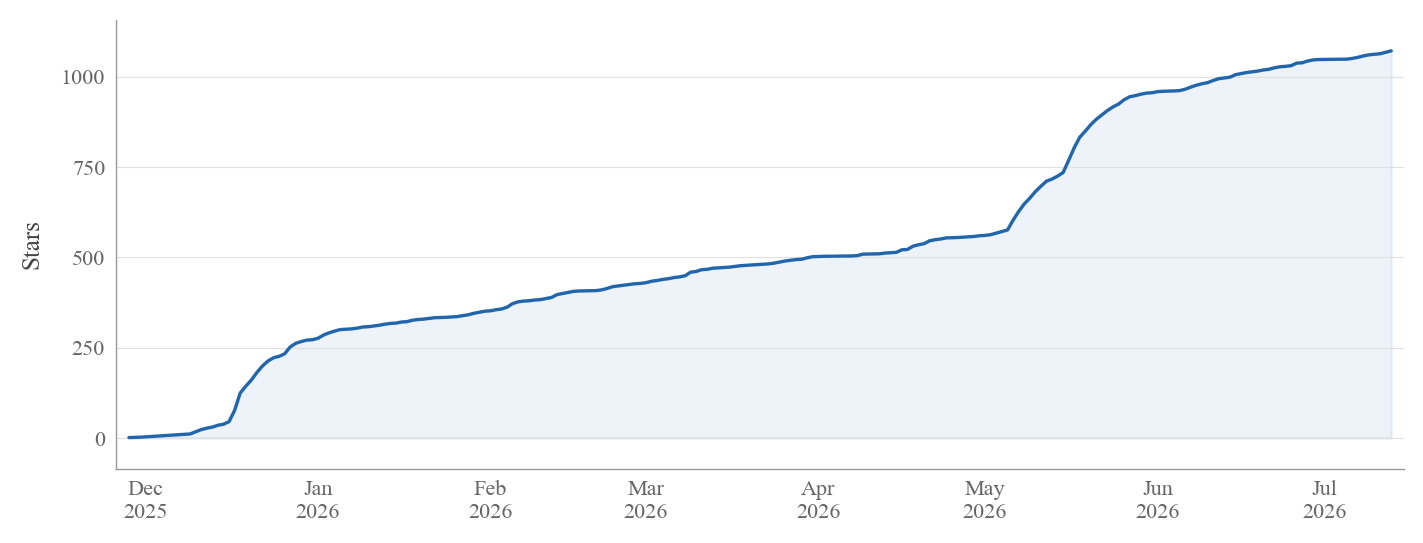
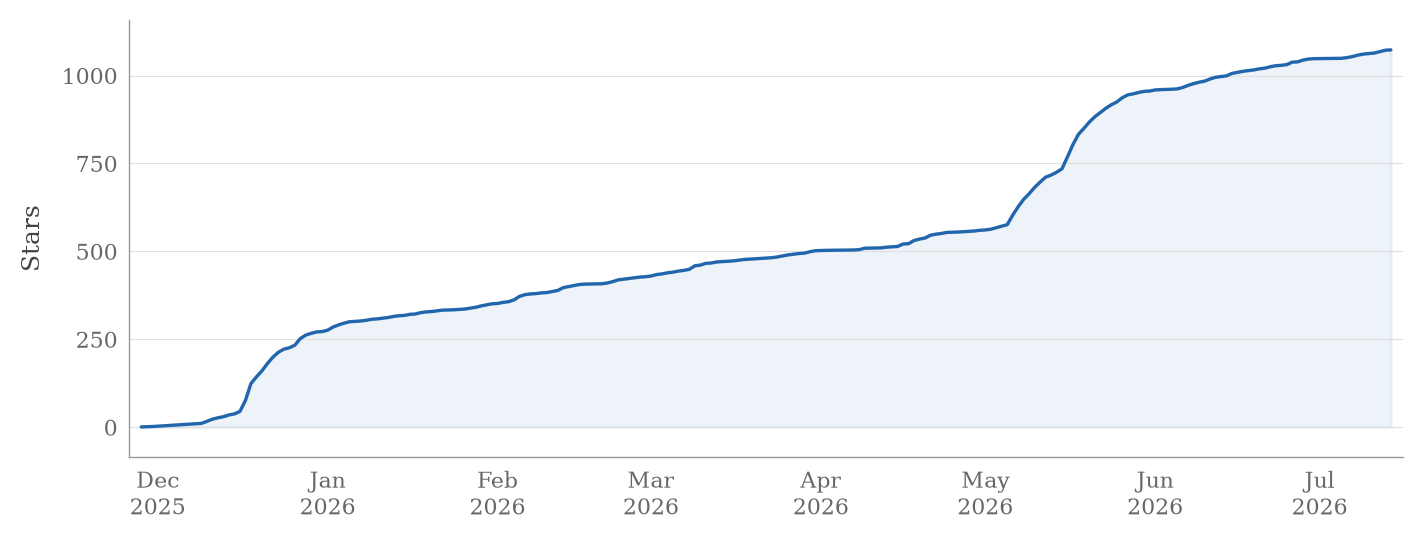
chore: update stars badge and chart

diff --git a/README.md b/README.md
@@ -8,7 +8,7 @@
 
 <p align="center">
   <a href="https://github.com/zimingttkx"><img src="https://img.shields.io/github/followers/zimingttkx?label=Follow&style=flat-square&logo=github" /></a>
-  <a href="https://github.com/zimingttkx?tab=repositories"><img src="https://img.shields.io/badge/Total%20Stars-1072-blue?style=flat-square" /></a>
+  <a href="https://github.com/zimingttkx?tab=repositories"><img src="https://img.shields.io/badge/Total%20Stars-1073-blue?style=flat-square" /></a>
   <a href="https://leetcode.cn/u/zimingttkx"><img src="https://img.shields.io/badge/LeetCode-zimingttkx-FFA116?style=flat-square&logo=leetcode&logoColor=white" /></a>
   <a href="mailto:2147514473@qq.com"><img src="https://img.shields.io/badge/Email-2147514473%40qq.com-EA4335?style=flat-square&logo=gmail&logoColor=white" /></a>
 </p>
